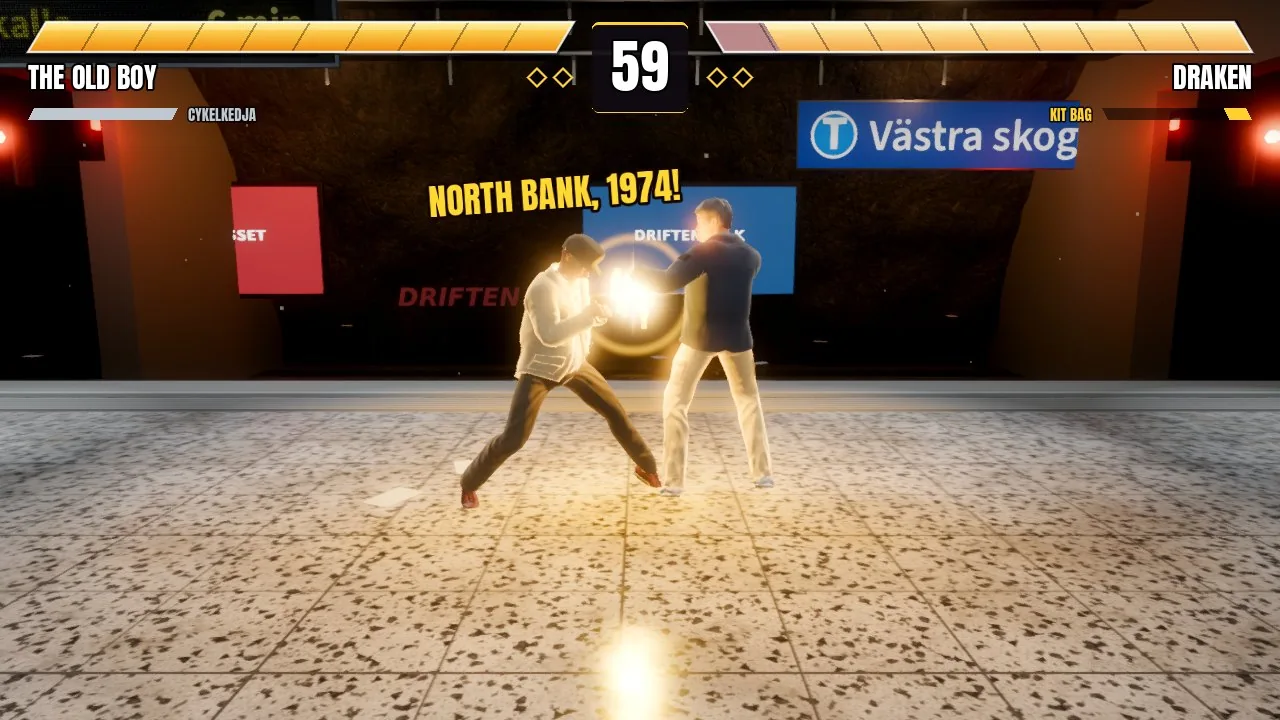
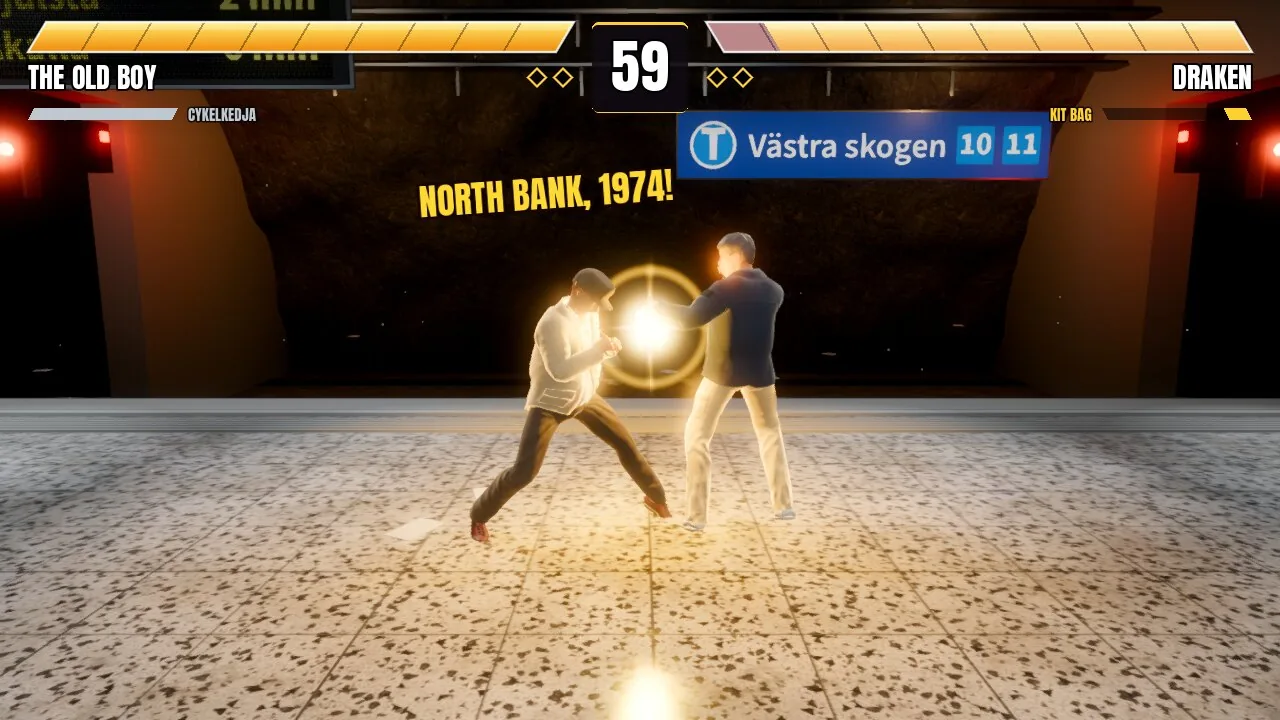
Supers, strings and modes under how to play, Sista tåget without adverts, Linux coming with the next version

diff --git a/index.html b/index.html
@@ -211,7 +211,7 @@ kbd {
 .steps b { display: block; color: var(--text); font-size: 20px; }
 
 /* Download */
-.download { display: grid; grid-template-columns: repeat(2, 1fr); gap: 18px; }
+.download { display: grid; grid-template-columns: repeat(3, 1fr); gap: 18px; }
 .platform { padding: 30px; background: linear-gradient(160deg, #24111b, var(--panel)); border: 1px solid var(--line); border-radius: 6px; }
 .platform h3 { font-size: 40px; margin-bottom: 10px; }
 .platform .button { margin-bottom: 10px; }
@@ -576,6 +576,7 @@ footer .brand { font-size: 22px; }
             <li><b>1, 2</b> jab och cross, <b>framåt+2</b> uppercut som lyfter.</li>
             <li><b>Ner+1</b> huk-jab, <b>ner+4</b> lågspark.</li>
             <li><b>1+3</b> och <b>2+4</b> är kast. Bryt dem med <b>1</b> eller <b>2</b>.</li>
+            <li><b>1,2,4</b> och <b>3,4</b> är kedjor alla har, och varje fighter har egna. Pausmenyn visar dem.</li>
             <li>Träffa mitt i motståndarens attack för <b>COUNTER!</b></li>
           </ul>
         </div>
@@ -596,19 +597,21 @@ footer .brand { font-size: 22px; }
             <li>Mätaren under namnet fylls när du landar träffar.</li>
             <li>När den blinkar <b>1+2</b>: tryck <b>1+2</b> och dra en pryl ur väskan. Du står still medan du plockar, så gör det på avstånd.</li>
             <li><b>Knogjärn</b>: slagen gör 40 % mer skada. <b>Ladd</b>: snabbare och tåligare i 8 sekunder, sedan en krasch.</li>
+            <li>Med en femtedel av livet kvar blir du <b>tänd</b>: <b>3+4</b> släpper loss din fighters egen super, en gång per rond.</li>
           </ul>
         </div>
         <div class="tip">
           <h3>MENYER</h3>
           <ul>
-            <li>Med handkontroll: <b>✕</b> väljer, <b>○</b> backar, <b>□</b> spela mot datorn, <b>△</b> online, upp/ner byter dräkt.</li>
-            <li>Med tangentbord: <b>F</b> väljer, <b>G</b> ångrar, <b>B</b> datorn, <b>V</b> online.</li>
+            <li>Med handkontroll: <b>✕</b> väljer, <b>○</b> backar, <b>□</b> spela mot datorn, <b>△</b> online, upp/ner byter dräkt, <b>RB</b> lägen.</li>
+            <li>Med tangentbord: <b>F</b> väljer, <b>G</b> ångrar, <b>B</b> datorn, <b>V</b> online, <b>Tab</b> lägen.</li>
+            <li>Lägen: arkad mot åtta ur gänget, turnering för 3–16, träning med frame data och repriser.</li>
           </ul>
         </div>
         <div class="tip">
           <h3>PAUS</h3>
           <ul>
-            <li><b>Esc</b> eller <b>Start</b> pausar. Där finns båda fighternas kommandon, ljud och bild, omstart och byt fighter.</li>
+            <li><b>Esc</b> eller <b>Start</b> pausar. Där finns båda fighternas kommandon, ljud och bild (även låg grafik för svagare datorer), omstart och byt fighter.</li>
             <li><b>M</b> slår av och på ljudet var som helst.</li>
           </ul>
         </div>
@@ -639,7 +642,7 @@ footer .brand { font-size: 22px; }
       <div class="section-head">
         <span class="num" aria-hidden="true">06</span>
         <h2>LADDA NER</h2>
-        <p>Packa upp och starta, ingen installation. Mac-versionen är signerad och godkänd av Apple. Windows-versionen är inte signerad, så där varnar datorn första gången.</p>
+        <p>Packa upp och starta, ingen installation. Mac-versionen är signerad och godkänd av Apple. Windows-versionen är inte signerad, så där varnar datorn första gången. Linux-versionen kräver ett grafikkort med Vulkan.</p>
       </div>
       <div class="download">
         <div class="platform">
@@ -659,6 +662,13 @@ footer .brand { font-size: 22px; }
             <li>Högerklicka på zip-filen och välj <b>Extrahera alla</b>.</li>
             <li>Starta <b>Knekken.exe</b> i mappen Knekken.</li>
             <li>Visar Windows "Windows skyddade datorn", klicka <b>Mer info › Kör ändå</b>.</li>
+          </ol>
+        </div>
+        <div class="platform">
+          <h3>LINUX</h3>
+          <p class="size">x86_64, Vulkan · kommer med nästa version</p>
+          <ol>
+            <li>Svag grafik (som Intels inbyggda)? Spelet väljer låg grafik själv, och du byter i pausmenyn under <b>Ljud och bild</b>.</li>
           </ol>
         </div>
       </div>
